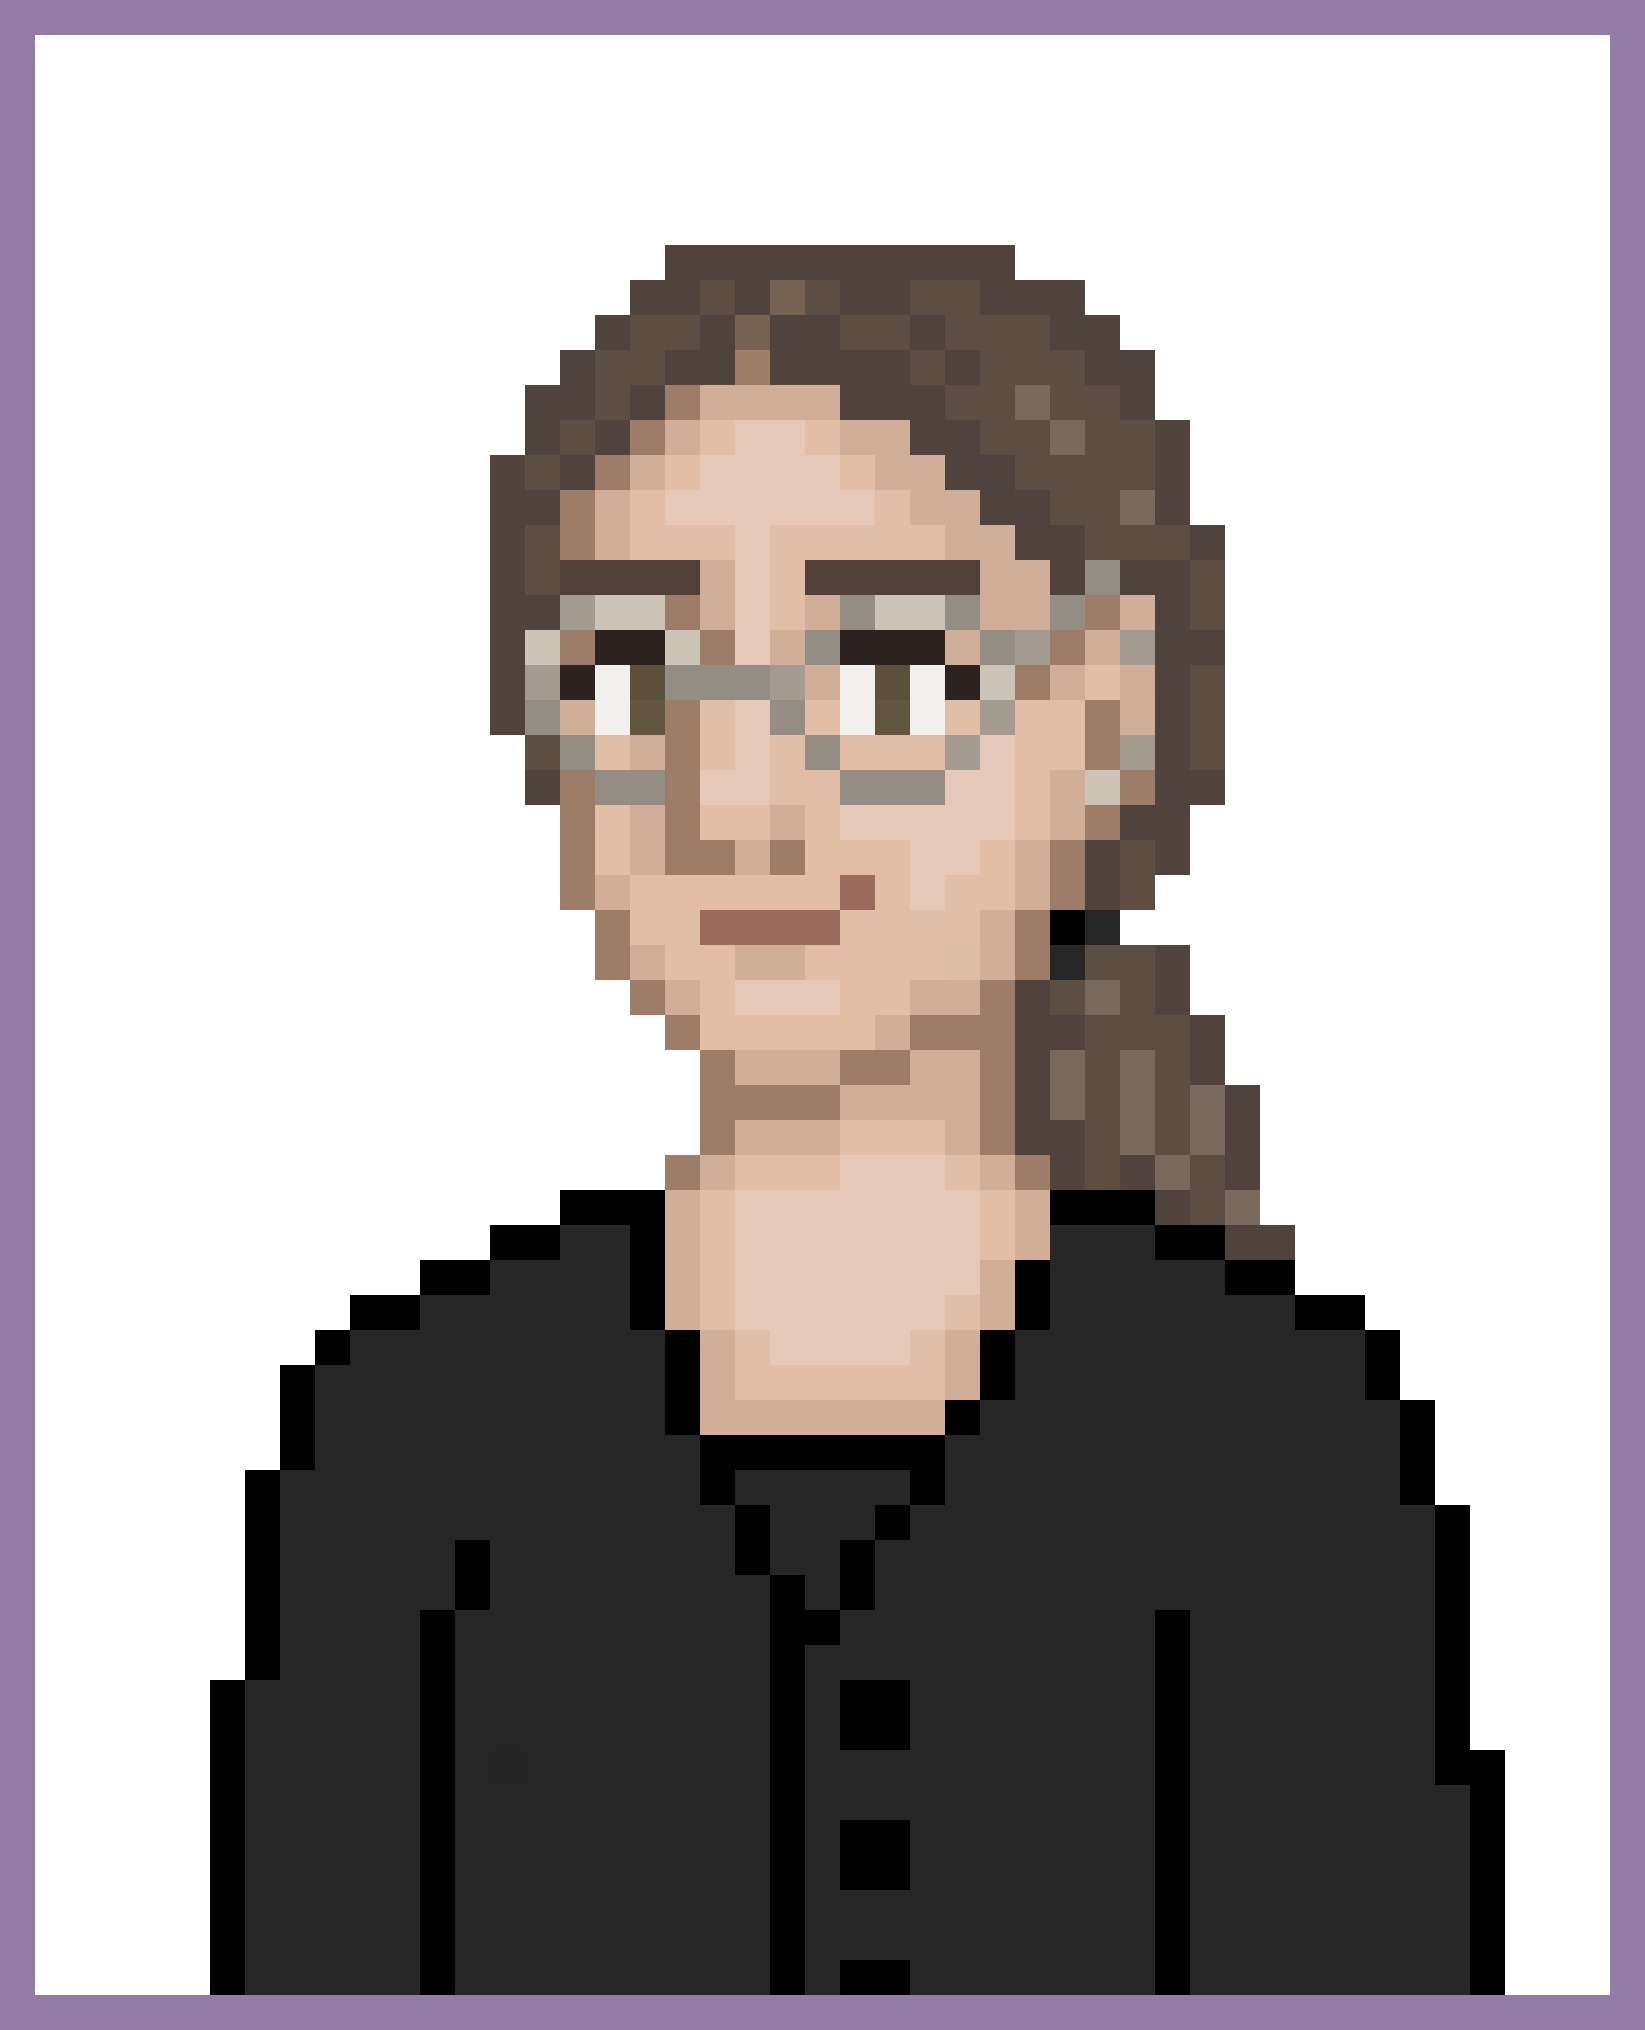
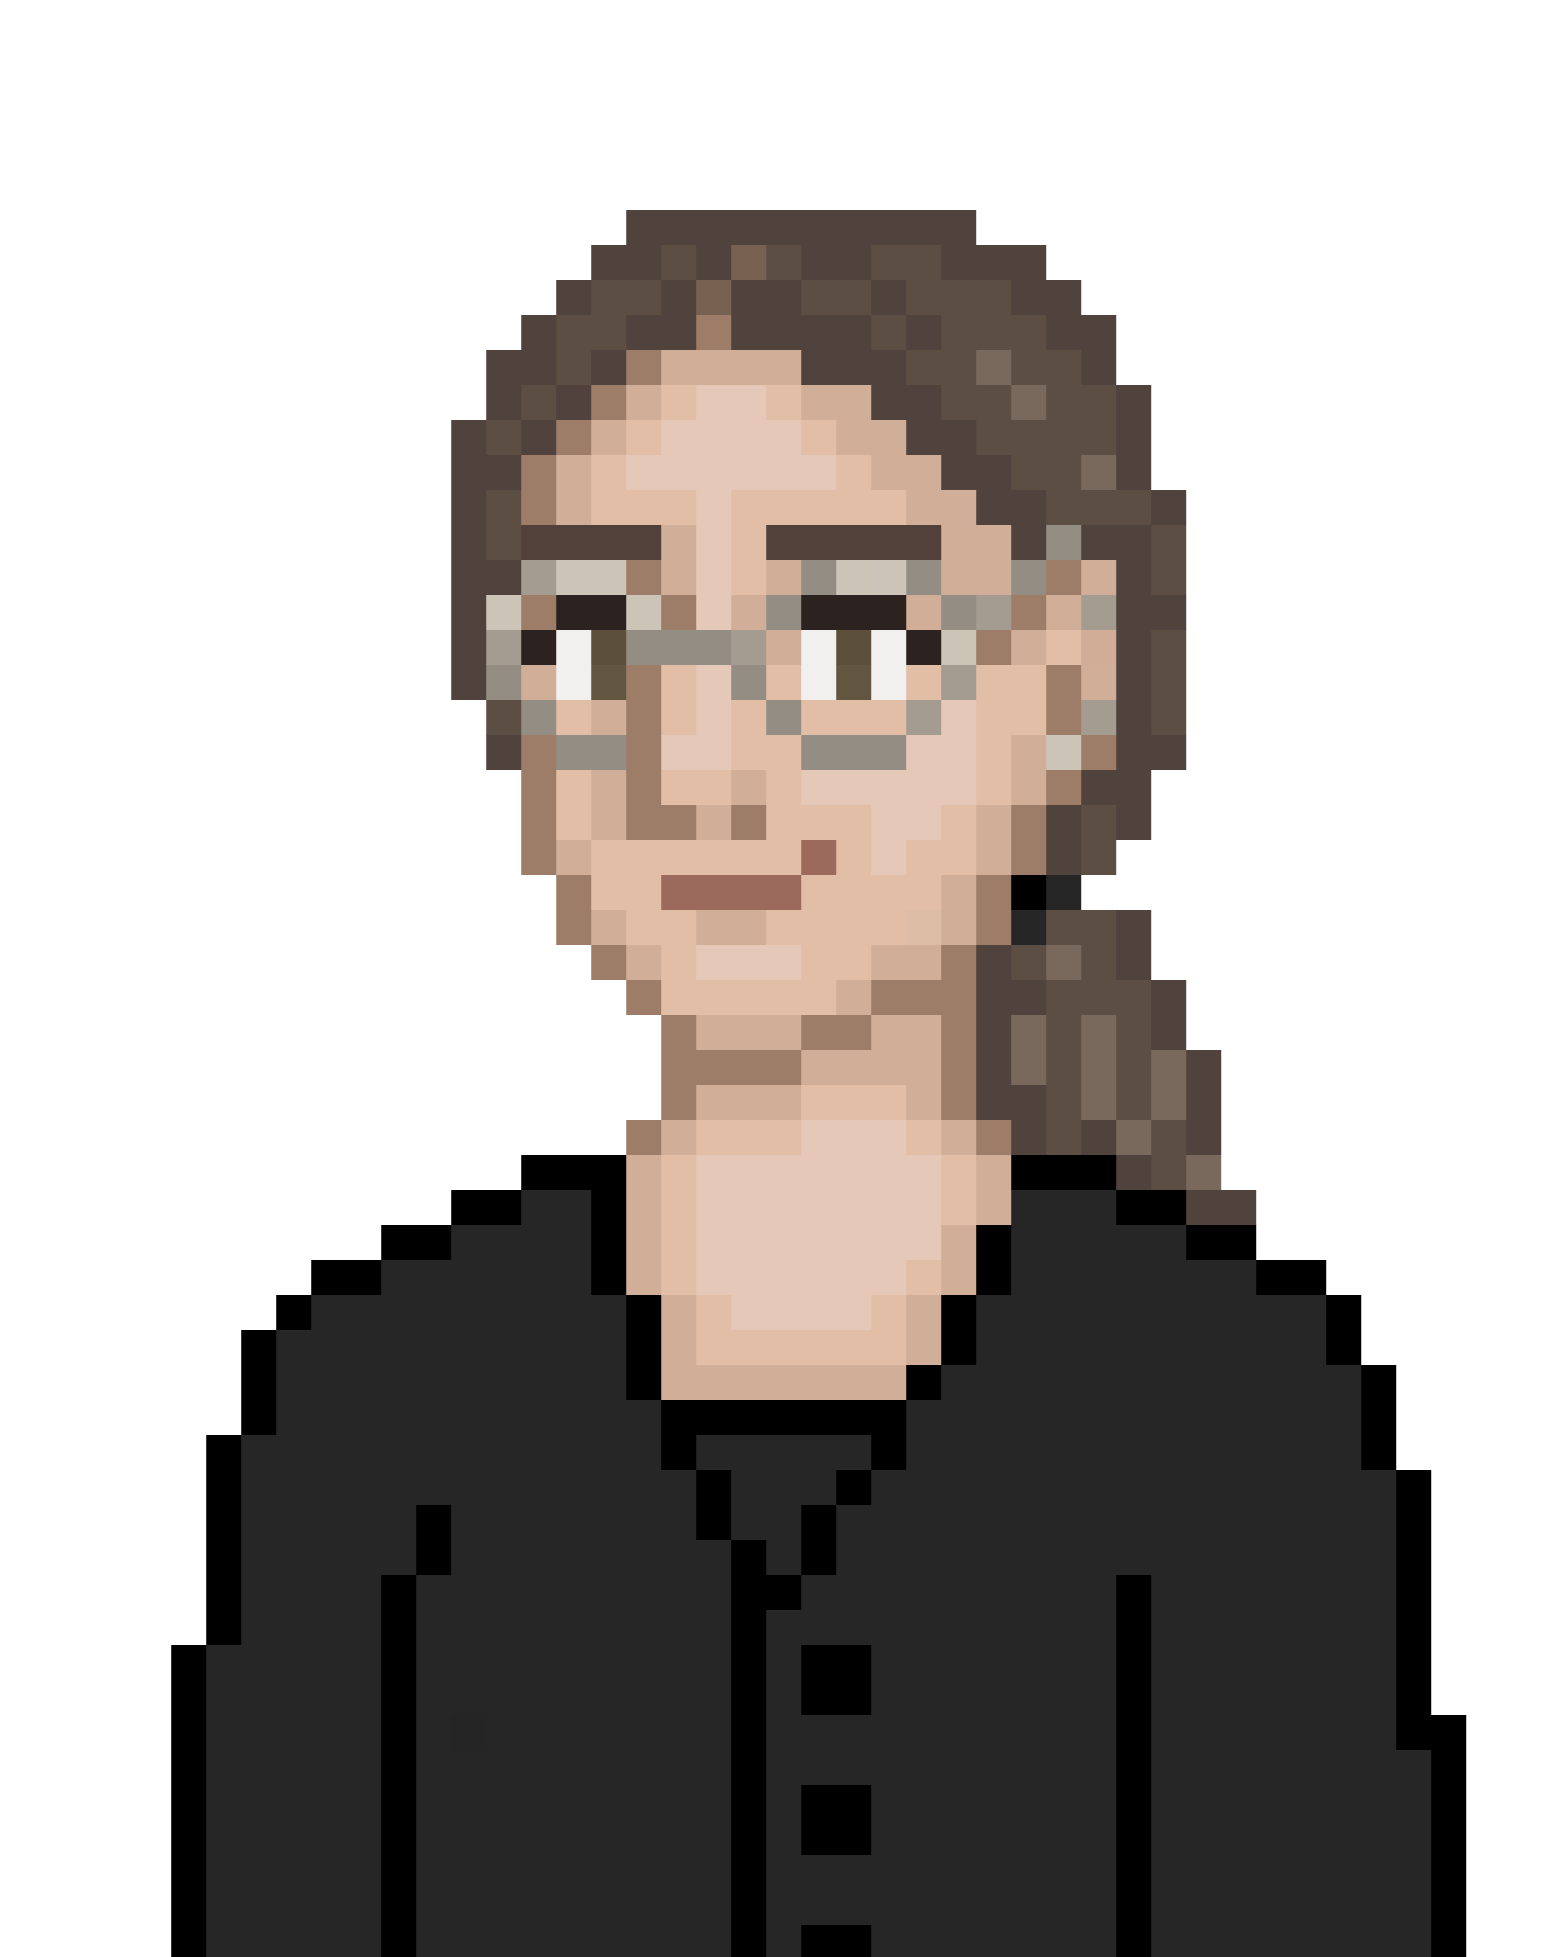
cosmetic changes

Changed region(s): [[0.0, 0.0, 1.0, 1.0], [0.4595, 0.5299, 0.5207, 0.5611], [0.5514, 0.4987, 0.582, 0.5299]]

diff --git a/src/pages/Home.js b/src/pages/Home.js
@@ -8,8 +8,10 @@ const ProfileImage = styled.div`
   position: relative;
   padding: 20px;
   margin: 20px 20px 20px 0px;
-  height: 256px;
-  width: 200px;
+  height: 207px;
+  width: 160px;
+
+  border: 4px solid ${({ theme }) => theme.main};
 
 `;
 
@@ -19,8 +21,8 @@ const Home = ({ children }) => {
     <div style={{display: 'grid', gridTemplate: '"a . ." "b c d"'}}>
       <h1 style={{ gridArea: 'a' }}>Home Page</h1>
       <ProfileImage style={{ gridArea: 'b' }}></ProfileImage>{children}
-      <p style={{ gridArea: 'c' }}>      Lorem ipsum dolor sit amet, consectetur adipiscing elit. Praesent porttitor magna quis augue ultricies iaculis. Nulla facilisi. Pellentesque luctus lacinia diam eget rutrum. Vivamus iaculis placerat nibh ac iaculis. Mauris sit amet sapien eu massa pharetra molestie. </p>
-      <p style={{ gridArea: 'd' }}> 
+      <p style={{ gridArea: 'c', margin: '10px' }}>      Lorem ipsum dolor sit amet, consectetur adipiscing elit. Praesent porttitor magna quis augue ultricies iaculis. Nulla facilisi. Pellentesque luctus lacinia diam eget rutrum. Vivamus iaculis placerat nibh ac iaculis. Mauris sit amet sapien eu massa pharetra molestie. </p>
+      <p style={{ gridArea: 'd', margin: '10px' }}> 
       Phasellus pharetra ultricies velit. Sed luctus pharetra rhoncus. Mauris tempor laoreet nibh. Fusce eget ipsum tempus, lobortis odio eu, sagittis ante. Sed congue at sapien ac commodo. Aliquam at lorem vel risus semper ultricies. Integer purus velit, mattis ac aliquet eget, tincidunt eu ex. Duis fringilla consectetur mi, lobortis viverra diam vulputate ut. Nullam malesuada placerat mauris, non laoreet lectus egestas eget. Donec vel dignissim tellus.</p>
     </div>
   );

diff --git a/src/pages/Portfolio.js b/src/pages/Portfolio.js
@@ -4,7 +4,7 @@ const Portfolio = () => {
   return (
     <div>
       <h1>Portfolio Page</h1>
-      <p>This is the portfolio page!</p>
+      <h2>This is the portfolio page!</h2>
       <p>      Vivamus tempor erat odio, ut malesuada ante vestibulum ac. Fusce a dolor vel massa dapibus accumsan viverra nec neque. Fusce elementum metus non libero rutrum, at ullamcorper nisi accumsan. Vestibulum interdum ante justo. Cras ligula quam, maximus id lorem ac, ornare finibus arcu. Etiam nisl metus, hendrerit eget volutpat ut, tristique at erat. Sed nec arcu eget nunc volutpat dapibus. Aliquam tortor est, eleifend eu sagittis sed, malesuada ut magna. Donec id lacus eu nulla ornare pulvinar vitae eget ligula.
 
 Curabitur vitae nisl vulputate, pharetra neque eget, mattis dui. Aenean ante nulla, auctor vitae mi eget, dignissim pretium dui. Maecenas ac tortor ac nisl placerat lobortis non suscipit quam. Proin venenatis, justo vitae varius eleifend, metus erat elementum massa, vel dignissim tortor tortor vel mi. Pellentesque quam lectus, faucibus sed maximus nec, iaculis et nunc. Nulla ullamcorper nunc ante. Donec dolor libero, mattis et iaculis eget, tristique sed mauris. Donec varius ornare massa. Pellentesque habitant morbi tristique senectus et netus et malesuada fames ac turpis egestas. Praesent vel ipsum vitae magna lobortis tempor sit amet et mi. Donec ultrices metus eget arcu malesuada, eu pharetra justo rutrum. Suspendisse eleifend risus sit amet felis accumsan dignissim. Proin efficitur pretium turpis. Aenean porta ex enim, vel hendrerit orci fermentum in. Donec congue tempor enim, eget efficitur massa. </p>

diff --git a/src/components/screen.js b/src/components/screen.js
@@ -23,9 +23,11 @@ const StyledScreen = styled.div`
   left: 50%;
   transform: translate(-50%, -50%);
 
-  border: 5px solid ${({ theme }) => theme.main};
+  border: 4px solid ${({ theme }) => theme.main};
 
 `;
+
+//  box-shadow: 0 4px 20px rgba(0, 0, 0, 0.4);
 
 const ThemeNav = styled.div`
   position: sticky;
@@ -34,25 +36,24 @@ const ThemeNav = styled.div`
   height: 50px;
   background-color: white;
   z-index: 3;
-  border-bottom: 5px solid ${({ theme }) => theme.main};
+  border-bottom: 4px solid ${({ theme }) => theme.main};
 `;
 
 const PageNav = styled.div`
   padding: 15px 0 15px 0;
   display: flex;
   position: sticky;
-  top: 55px;
+  top: 54px;
   width: 100%;
   background-color: white;
   z-index: 2;
-  border-bottom: 5px solid ${({ theme }) => theme.main};
+  border-bottom: 4px solid ${({ theme }) => theme.main};
 `;
 
 const NavLink = styled(Link)`
-  color: black;  // You can pull this from your theme if needed
-  font-family: 'Arial', sans-serif;         // Set your desired font
-  font-size: 20px;                          // Adjust font size
-  text-decoration: none;                    // Remove underline by default
+  color: black;
+  font-size: 30px;  
+  text-decoration: none;     
 
   &:hover {
     color: ${({ theme }) => theme.second}; 
@@ -63,10 +64,9 @@ const NavLink = styled(Link)`
   }
 `;
 
-//  box-shadow: 0 4px 20px rgba(0, 0, 0, 0.4);
 
 const Screen = ({ children }) => {
-  const [theme, setTheme] = useState(Theme1); // Default theme 1
+  const [theme, setTheme] = useState(Theme3); // Default theme
 
   const toggleTheme1 = () => {
     setTheme(Theme1);

diff --git a/src/App.css b/src/App.css
@@ -44,26 +44,28 @@ button {
   margin: 10px;
   position: absolute;
   top: 0px;
-  border-radius: 50%;
+  border-radius: 0%;
   border: 0;
   background-color: Black;
   cursor: pointer;
-  
 }
 
 #T1 {
   left: 0; 
-  background: linear-gradient(-45deg, #fecb00 50%, #a895b9 50% 100%);
+  background: conic-gradient(#fecb00 90deg, #a895b9 90deg 180deg, #fecb00 180deg 270deg, #a895b9 270deg);
   background-blend-mode: multiply;
+  background-size: 100% 100%;
   &:hover {
     background-color: rgba(0, 0, 0, 0.2);
   }
+  
 }
 
 #T2 {
   left: 40px;
-  background: linear-gradient(-45deg, #30af84 50%, #c5561e 50% 100%);
+  background: conic-gradient(#30af84 90deg, #c5561e 90deg 180deg, #30af84 180deg 270deg, #c5561e 270deg);
   background-blend-mode: multiply;
+  background-size: 100% 100%;
   &:hover {
     background-color: rgba(0, 0, 0, 0.2);
   }
@@ -71,8 +73,9 @@ button {
 
 #T3 {
   left: 80px; 
-  background: linear-gradient(-45deg, #7d92d5 50%, #eb8600 50% 100%);
+  background: conic-gradient(#7d92d5 90deg, #eb8600 90deg 180deg, #7d92d5 180deg 270deg, #eb8600 270deg);
   background-blend-mode: multiply;
+  background-size: 100% 100%;
   &:hover {
     background-color: rgba(0, 0, 0, 0.2);
   }

diff --git a/src/pages/Education.js b/src/pages/Education.js
@@ -4,7 +4,7 @@ const Education = () => {
   return (
     <div>
       <h1>Education Page</h1>
-      <p>This is the education page!</p>
+      <h2>This is the education page!</h2>
       <p>      
       Sed hendrerit ultricies venenatis. Sed est purus, aliquet et tincidunt finibus, pulvinar vitae felis. Donec erat leo, dictum a suscipit vitae, condimentum ac quam. Nulla facilisi. Vestibulum egestas massa a elementum mattis. Vestibulum ante ipsum primis in faucibus orci luctus et ultrices posuere cubilia curae; Sed pretium nulla sed velit efficitur tincidunt. Duis aliquam sollicitudin orci, eget hendrerit sem dictum at. Cras lobortis lacus in venenatis accumsan. Curabitur vitae risus ut velit consectetur mollis eu vel libero. Quisque at arcu tempor, semper massa id, facilisis nulla. In hac habitasse platea dictumst. Interdum et malesuada fames ac ante ipsum primis in faucibus.
 

diff --git a/src/index.css b/src/index.css
@@ -6,11 +6,18 @@ html, body {
 
 body {
   margin: 0;
-  font-family: -apple-system, BlinkMacSystemFont, 'Segoe UI', 'Roboto', 'Oxygen',
-    'Ubuntu', 'Cantarell', 'Fira Sans', 'Droid Sans', 'Helvetica Neue',
-    sans-serif;
+  font-family: "VT323", monospace;
   -webkit-font-smoothing: antialiased;
   -moz-osx-font-smoothing: grayscale;
+}
+
+h1 {
+  font-size: 50px;
+  margin: 0;
+}
+
+p {
+  font-size: 23px;
 }
 
 #root {

diff --git a/public/index.html b/public/index.html
@@ -3,6 +3,7 @@
   <head>
     <meta charset="utf-8" />
     <link rel="icon" href="%PUBLIC_URL%/favicon.ico" />
+    <link href="https://fonts.googleapis.com/css2?family=VT323&display=swap" rel="stylesheet">
     <meta name="viewport" content="width=device-width, initial-scale=1" />
     <meta name="theme-color" content="#000000" />
     <meta
